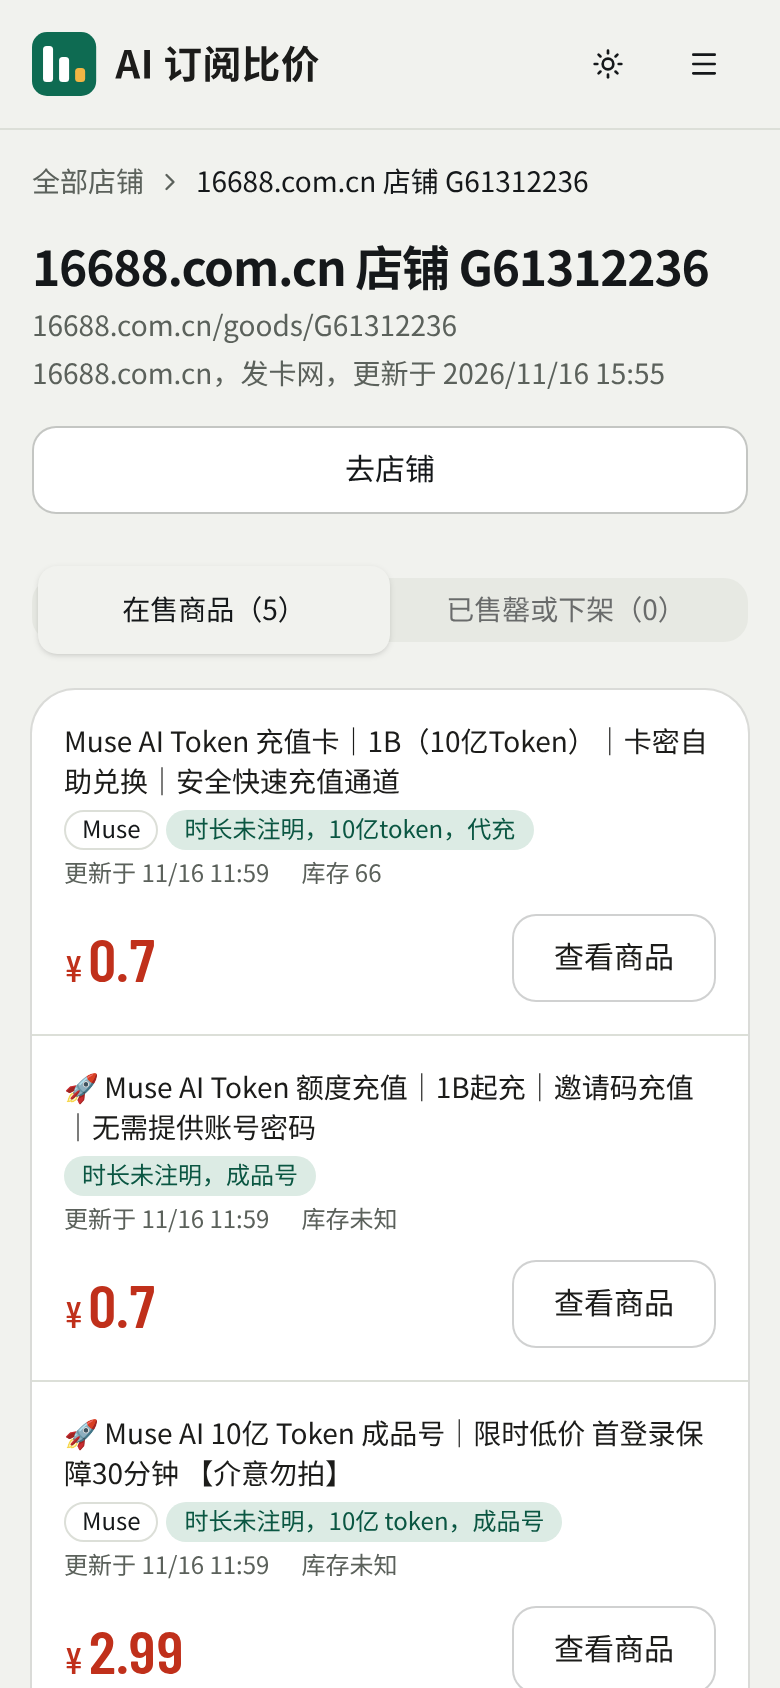
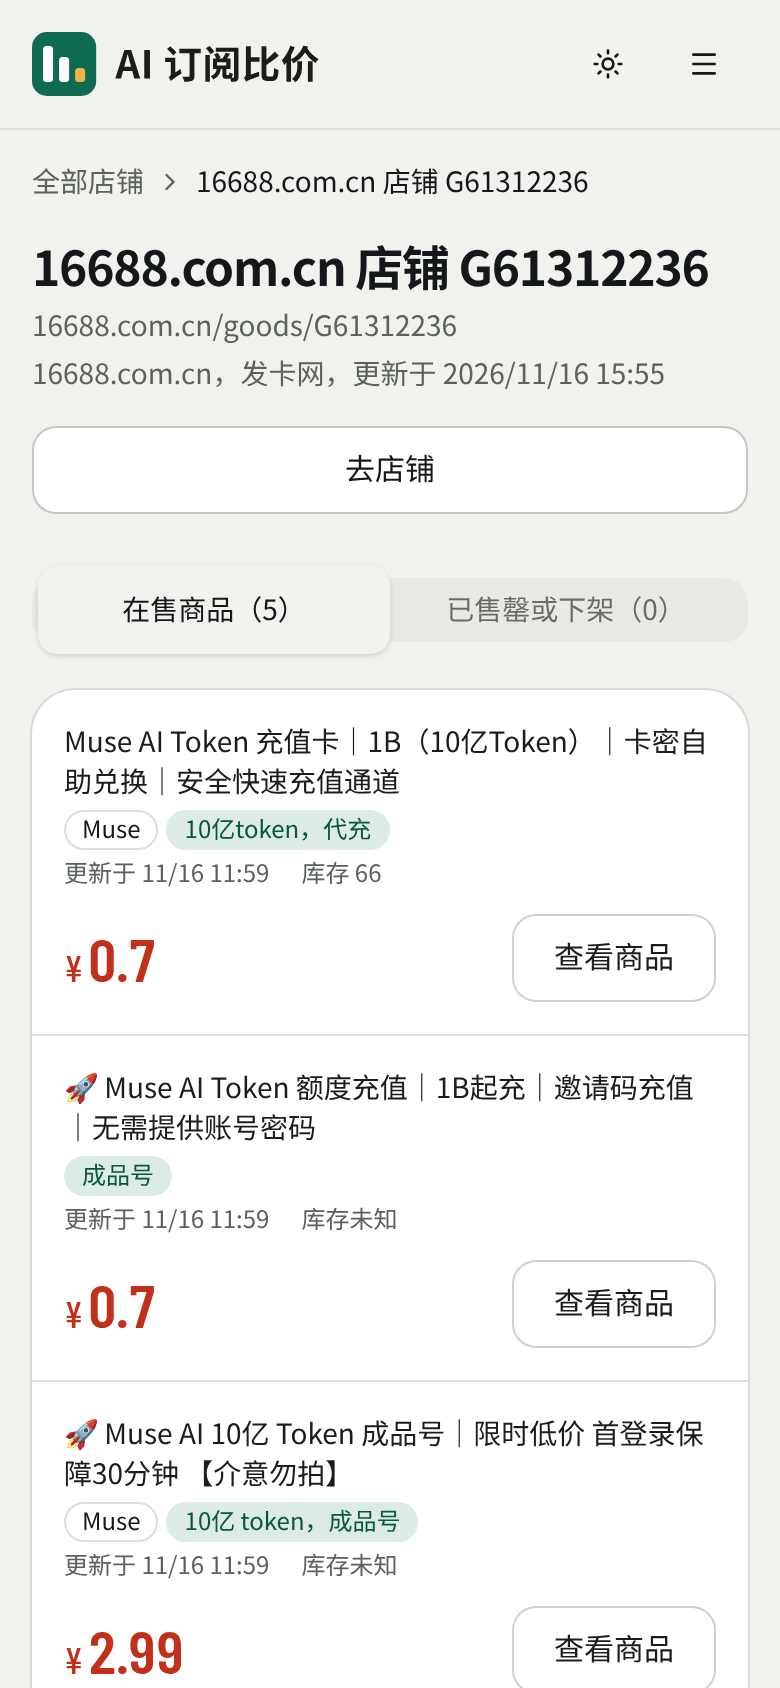
前端不再显示「时长未注明」：时长未知时省略该段，分组名改为「其他规格」

diff --git a/web/src/lib/spec.ts b/web/src/lib/spec.ts
@@ -2,9 +2,10 @@ import type { Spec, Tool } from './types'
 
 const cap = (s: string) => s.replace(/^[a-z]/, (c) => c.toUpperCase())
 
-/** 周期分组名：1月→月卡，1年→年卡，3月→季卡，其余原样；缺失 → 时长未注明 */
+const UNK = '时长未注明' // 仅用于识别接口里的占位值，绝不显示
+/** 周期分组名：1月→月卡，1年→年卡，3月→季卡，其余原样；缺失 → 其他规格 */
 export function durationGroup(d?: string | null): string {
-  if (!d) return '时长未注明'
+  if (!d || d === UNK) return '其他规格'
   if (d === '1月') return '月卡'
   if (d === '1年') return '年卡'
   if (d === '3月') return '季卡'
@@ -14,12 +15,13 @@ export function durationGroup(d?: string | null): string {
 /** 规格名（不含周期）：取 label 去掉开头的周期，再逐段首字母大写；缺失时用 tier + delivery 兜底 */
 export function specName(s: Pick<Spec, 'label' | 'tier' | 'delivery'>): string {
   const parts = (s.label ?? '').split(' / ').map((x) => x.trim()).filter(Boolean)
-  if (parts[0] === '时长未注明' || /^\d+(天|月|年)$/.test(parts[0] ?? '')) parts.shift()
+  if (parts[0] === UNK || /^\d+(天|月|年)$/.test(parts[0] ?? '')) parts.shift()
   const name = parts.map(cap).join(' ')
   return name || [s.tier ? cap(s.tier) : '', s.delivery && s.delivery !== '未注明交付' ? s.delivery : ''].filter(Boolean).join(' ') || '未命名规格'
 }
 
-export const periodText = (s: { period?: string | null }) => s.period ?? '时长未注明'
+/** 时长文本，未知返回空串 */
+export const periodText = (s: { period?: string | null }) => (s.period && s.period !== UNK ? s.period : '')
 export const lowestShopName = (s: Spec) => s.lowest_shop?.name || null
 
 // ---- 前端自带的展示元数据：接口目前不返回厂商、分类、简介 ----

diff --git a/web/src/pages/ToolPage.tsx b/web/src/pages/ToolPage.tsx
@@ -116,7 +116,7 @@ export default function ToolPage() {
                         <span className="absolute size-px overflow-hidden opacity-0"><RadioGroupItem value={s.key} /></span>
                         <span className="min-w-0 flex-1">
                           <span className="block truncate text-sm font-medium" title={specName(s)}>{specName(s)}</span>
-                          <span className="mt-0.5 block text-xs text-muted-foreground">{periodText(s)}，{s.shop_count} 家在售</span>
+                          <span className="mt-0.5 block text-xs text-muted-foreground">{[periodText(s), `${s.shop_count} 家在售`].filter(Boolean).join('，')}</span>
                         </span>
                         <Price value={s.lowest_price} currency={s.currency} suffix="" className="[&>span]:text-2xl" />
                       </label>
@@ -134,7 +134,7 @@ export default function ToolPage() {
             <div className="mb-4 flex flex-wrap items-end justify-between gap-3">
               <div>
                 <h2 id="shops-h" className="text-lg font-semibold">{cur ? specName(cur) : '在售店铺'}</h2>
-                {cur && <p className="mt-0.5 text-sm text-muted-foreground">{periodText(cur)}，{cur.shop_count} 家在售，最低 {money(cur.lowest_price, cur.currency)}{lowestShopName(cur) ? `（${lowestShopName(cur)}）` : ''}</p>}
+                {cur && <p className="mt-0.5 text-sm text-muted-foreground">{[periodText(cur), `${cur.shop_count} 家在售`].filter(Boolean).join('，')}，最低 {money(cur.lowest_price, cur.currency)}{lowestShopName(cur) ? `（${lowestShopName(cur)}）` : ''}</p>}
               </div>
               <Select value={sort} onValueChange={(v) => update('sort', v === 'price-asc' ? '' : v)}>
                 <SelectTrigger aria-label="排序" className="h-10 w-40 bg-card"><SelectValue /></SelectTrigger>

diff --git a/web/src/pages/Home.tsx b/web/src/pages/Home.tsx
@@ -77,7 +77,7 @@ function Board({ tools }: { tools: Tool[] }) {
                 <Tile name={t.name} size="xs" />
                 <div className="min-w-0 flex-1">
                   <p className="truncate text-sm font-medium">{t.name} <span className="font-normal text-muted-foreground">{specName(e).split(' ').filter((w) => !t.name.toLowerCase().split(' ').includes(w.toLowerCase())).join(' ')}</span></p>
-                  <p className="truncate text-xs text-muted-foreground">{periodText(e)}，共 {t.entry_shop_count ?? 0} 家在售</p>
+                  <p className="truncate text-xs text-muted-foreground">{[periodText(e), `共 ${t.entry_shop_count ?? 0} 家在售`].filter(Boolean).join('，')}</p>
                 </div>
                 <span className="fig text-2xl font-semibold text-price"><span className="mr-0.5 text-[0.62em] font-medium">¥</span>{new Intl.NumberFormat('zh-CN', { maximumFractionDigits: 2 }).format(t.entry_price!)}</span>
               </Link>

diff --git a/web/src/lib/format.ts b/web/src/lib/format.ts
@@ -1,7 +1,7 @@
 const nf = new Intl.NumberFormat('zh-CN', { maximumFractionDigits: 2 })
 export const money = (n: number, cur = 'CNY') => (cur === 'CNY' ? '¥' : cur + ' ') + nf.format(n)
 // 规格标签 "1月 / plus / 代充" → "1月，plus，代充"
-export const specText = (s?: string | null) => (s ?? '').split(' / ').join('，')
+export const specText = (s?: string | null) => (s ?? '').split(' / ').map((x) => x.trim()).filter((x) => x && x !== '时长未注明').join('，')
 const dtf = new Intl.DateTimeFormat('zh-CN', { timeZone: 'Asia/Shanghai', month: 'numeric', day: 'numeric', hour: '2-digit', minute: '2-digit', hour12: false })
 const dtfY = new Intl.DateTimeFormat('zh-CN', { timeZone: 'Asia/Shanghai', year: 'numeric', month: 'numeric', day: 'numeric', hour: '2-digit', minute: '2-digit', hour12: false })
 export const when = (iso?: string | null, year = false) => (iso ? (year ? dtfY : dtf).format(new Date(iso)) : '未知')

diff --git a/web/src/pages/ShopPage.tsx b/web/src/pages/ShopPage.tsx
@@ -21,7 +21,7 @@ function ListingRows({ items }: { items: Listing[] }) {
               <p className="font-medium break-words">{l.title}</p>
               <p className="mt-1 flex flex-wrap gap-1">
                 {l.product && <Badge variant="outline">{l.product}</Badge>}
-                {l.spec && <Badge variant="secondary">{specText(l.spec)}</Badge>}
+                {specText(l.spec) && <Badge variant="secondary">{specText(l.spec)}</Badge>}
               </p>
               <p className="mt-1 flex flex-wrap gap-x-4 text-xs text-muted-foreground">
                 <span>更新于 {when(l.observed_at)}</span>{stockText(l.stock) && <span>{stockText(l.stock)}</span>}

diff --git a/web/src/mock/specs.ts b/web/src/mock/specs.ts
@@ -18,7 +18,7 @@ const toInfo = (_name: string, s: MockSpec): Spec => {
   const period = s.duration ? DUR[s.duration] ?? s.duration : null
   const tier = s.tier ? s.tier.toLowerCase() : null
   return {
-    key: s.key, label: [period ?? '时长未注明', tier, delivery].filter(Boolean).join(' / '), currency: s.currency,
+    key: s.key, label: [period, tier, delivery].filter(Boolean).join(' / '), currency: s.currency,
     tier, period, delivery, lowest_price: s.min, lowest_shop: s.lowest_shop ? { name: s.lowest_shop, shop_key: 'mock.example' } : null,
     shop_count: s.n_shops, listing_count: s.n_offers,
   }
